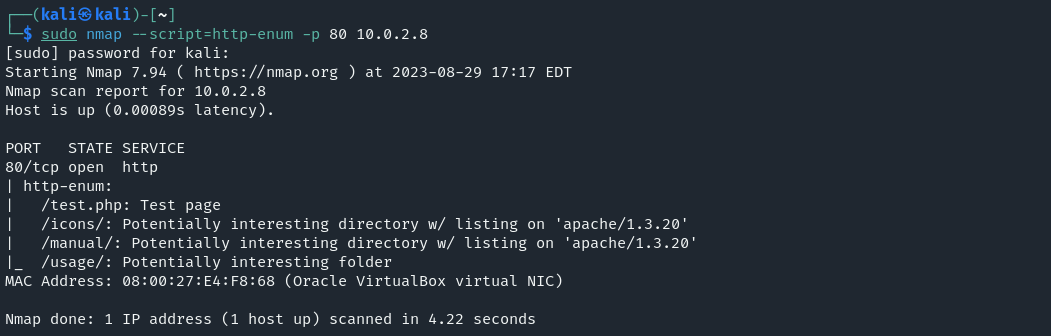
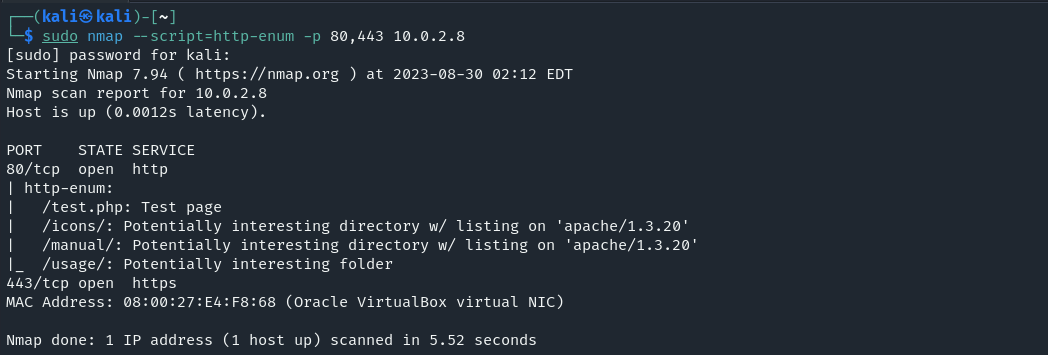
.

Changed region(s): [[0.0, 0.3869, 0.6718, 0.8631], [0.0, 0.0, 0.5496, 0.3571], [0.0, 0.9226, 0.5191, 0.9821]]

diff --git a/_posts/2023-08-29-kioptrix1.md b/_posts/2023-08-29-kioptrix1.md
@@ -27,7 +27,12 @@ There's a lot to digest from the nmap scan results, we'll take it step by step, 
 #### HTTP/S Enumeration. 
 
 
-Looking at the website itself and viewing the source, does not reveal any info we might use as an initial vector for gaining accesss, hence i jumped to using an **nmap** script first and see what we can reveal
+Looking at the website itself and viewing the source, we can determine that the server is Apache 1.3.20 and OS is RHEL, revealling a bit more on the sitemap if we use Burp Suite.
+
+![img1](/assets/images/kioptrix1/img1.1.png)
+
+
+Let's also use an **nmap** script and see if anything interesting comes up.
 
 
 ![img2](/assets/images/kioptrix1/img2.png)
@@ -37,11 +42,12 @@ We see some directories discovered. Under **/manual/** there's a "mod" directory
 
 ![img3](/assets/images/kioptrix1/img3.png)
 
-Looking in **/usage/** directory, we see a dashboard indicating Usage Statistics which is generated with **Webalizer**
+Additionally to what Burp discovered, we have **/usage/** directory, containing a dashboard indicating Usage Statistics. The dashboard is generated with a **Webalizer** version which is likely vulnerable to buffer overflow - found many google results pointing to BOF and will dig this out later. For now i would use some additional resources and keep enumerating.
 
 ![img4](/assets/images/kioptrix1/img4.png)
 
 
+A **Nikto** scan reveals a considerable number of potential vulnerabilities and vectors for gaining an initial foothold on the machine(outdated Apache, vulnerable mod_ssl, backdors, hidden content, etc.)
 
 
 
